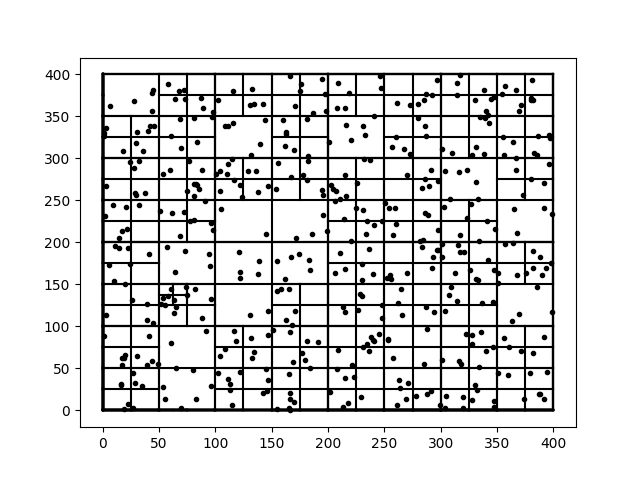
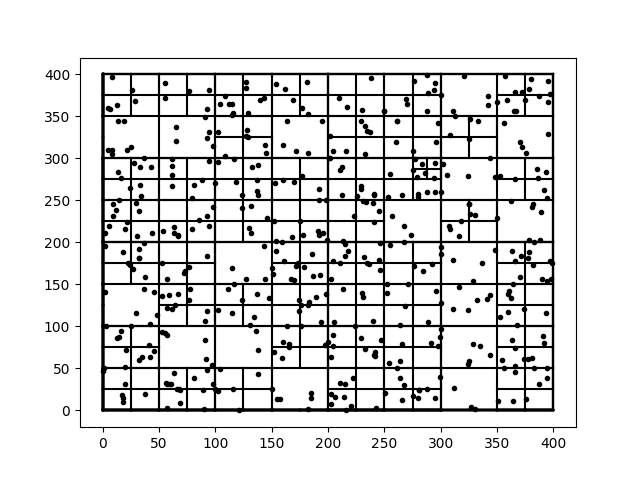
Fixed point storing of points on the boundaries

Changed region(s): [[0.1562, 0.1562, 0.875, 0.875], [0.8438, 0.6875, 0.875, 0.7188], [0.5625, 0.1562, 0.5938, 0.1875]]

diff --git a/quadtree.py b/quadtree.py
@@ -14,10 +14,10 @@ class Rectangle():
         self.h = h
 
     def contains(self, point):
-        return (point.x < self.x + self.w and
-                point.x > self.x - self.w and
-                point.y < self.y + self.h and
-                point.y > self.y - self.h)
+        return (point.x <= self.x + self.w and
+                point.x >= self.x - self.w and
+                point.y <= self.y + self.h and
+                point.y >= self.y - self.h)
 
 class QuadTree():
     def __init__(self, boundary, capacity):
@@ -46,19 +46,25 @@ class QuadTree():
 
     def insert(self, point):
         if(not self.boundary.contains(point)):
-            return
+            return False
 
         if(len(self.points) < self.capacity):
             self.points.append(point)
+            return True
+
         else:
             if(not self.is_divided):
                 self.subdivide()
                 self.is_divided = True
 
-            self.northwest.insert(point)
-            self.northeast.insert(point)
-            self.southwest.insert(point)
-            self.southeast.insert(point)
+            if (self.northwest.insert(point)):
+                return True
+            elif (self.northeast.insert(point)):
+                return True
+            elif (self.southwest.insert(point)):
+                return True
+            elif (self.southeast.insert(point)):
+                return True
 
     def draw(self):
         x = [self.boundary.x - self.boundary.w, self.boundary.x + self.boundary.w] 
